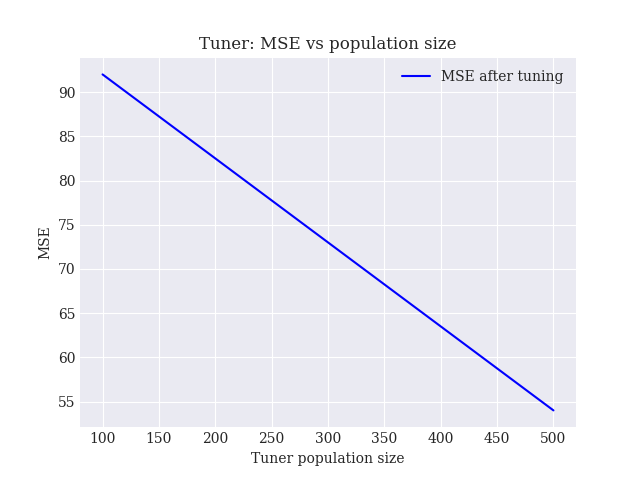
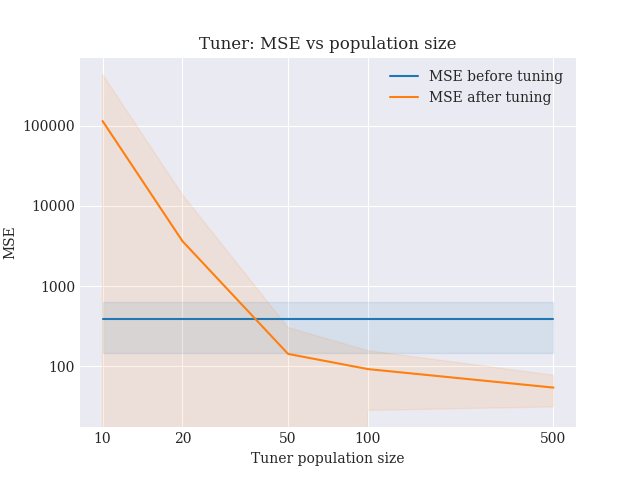
Fix plot tuner pop size

diff --git a/plots/plot_tuner_pop_size.py b/plots/plot_tuner_pop_size.py
@@ -1,7 +1,7 @@
 # %%
 import numpy as np
 
-from reader import avg_over_runs
+from reader import avg_over_runs, extract_all_data
 
 runs = 10
 pop_size = 100
@@ -41,7 +41,7 @@ def extract_numbers(size):
                     # Max iteration was reached thus 100
                     iterations[run, pop] = 100
 
-                mse[run, pop] = float(split[-1])
+                mse[run, pop] = float(split[2])
                 stopped_early = False
                 pop += 1
 
@@ -57,10 +57,12 @@ def extract_numbers(size):
 
 
 data = {}
-sizes = [50, 100, 500]
+files = []
+sizes = [10, 20, 50, 100, 500]
 # sizes = [50, 100]
 
 for size in sizes:
+    files.append((f"../log/log_tuner_pop_size_{size}.txt", f"tuner_pop_{size}"))
     data[size] = extract_numbers(size)
 
 # %%
@@ -74,37 +76,61 @@ matplotlib.style.use('seaborn-darkgrid')
 matplotlib.rcParams['font.family'] = "serif"
 
 # Create y values
-ys_mse = np.zeros_like(sizes)
 ys_evals = np.zeros_like(sizes)
+ys_evals_std = np.zeros_like(sizes)
 for idx, s in enumerate(sizes):
-    mse, _, evals = data[s]
-    m_mse, _ = avg_over_runs(mse)
-    m_eval, _ = avg_over_runs(evals)
-
-    ys_mse[idx] = m_mse
+    _, _, evals = data[s]
+    m_eval, std_eval = avg_over_runs(evals)
     ys_evals[idx] = m_eval
+    ys_evals_std[idx] = std_eval
 
+# %%
+ys_mse_before = []
+ys_mse_after = []
+ys_std_before = []
+ys_std_after = []
+all_data = extract_all_data(files, runs=runs, gens=100, pop_size=pop_size)
+for w in all_data.keys():
+    _, _, before, after = all_data[w]
+    ys_mse_before.append(before[:, -1].mean())
+    ys_std_before.append(before[:, -1].std())
+    ys_mse_after.append(after[:, -1].mean())
+    ys_std_after.append(after[:, -1].std())
+ys_mse_before = np.array(ys_mse_before)
+ys_mse_after = np.array(ys_mse_after)
+ys_std_before = np.array(ys_std_before)
+ys_std_after = np.array(ys_std_after)
+# %%
+
+palette = plt.get_cmap('tab10')
+fig, ax = plt.subplots()
+ax.set_yscale('log')
+ax.set_xscale('log')
+ax.set_xticks(sizes)
+ax.get_xaxis().set_major_formatter(matplotlib.ticker.ScalarFormatter())
+ax.get_yaxis().set_major_formatter(matplotlib.ticker.ScalarFormatter())
+ax.plot(sizes, ys_mse_before, label="MSE before tuning", color=palette(0))
+ax.fill_between(sizes, ys_mse_before + ys_std_before, ys_mse_before - ys_std_before, color=palette(0), alpha=0.1)
+ax.plot(sizes, ys_mse_after, label="MSE after tuning", color=palette(1))
+ax.fill_between(sizes, ys_mse_after + ys_std_after, ys_mse_after - ys_std_after, color=palette(1), alpha=0.1)
+
+ax.set_xlabel("Tuner population size")
+ax.set_ylabel("MSE")
+ax.set_title("Tuner: MSE vs population size")
+ax.legend()
+
+fig.savefig("../images/tuner_pop_size_mse")
+fig.show()
+
+#%%
 plt.figure()
-plt.plot(sizes, ys_mse, color='blue', label="MSE after tuning")
-
-plt.xlabel("Tuner population size")
-plt.ylabel("MSE")
-plt.title("Tuner: MSE vs population size")
-plt.legend()
-
-print(ys_mse)
-print(ys_evals)
-
-plt.savefig("../images/tuner_pop_size_mse_50_100_500")
-plt.show()
-
-plt.figure()
-plt.plot(sizes, ys_evals, color='blue', label="Total evaluations")
+plt.plot(sizes, ys_evals, label="Total evaluations")
+plt.fill_between(sizes, ys_evals + ys_evals_std, ys_evals - ys_evals_std, alpha=0.1)
 
 plt.xlabel("Tuner population size")
 plt.ylabel("Evaluations")
 plt.title("Tuner: evaluations vs population size")
 plt.legend()
 
-plt.savefig("../images/tuner_pop_size_evals_50_100_500")
+plt.savefig("../images/tuner_pop_size_evals")
 plt.show()
